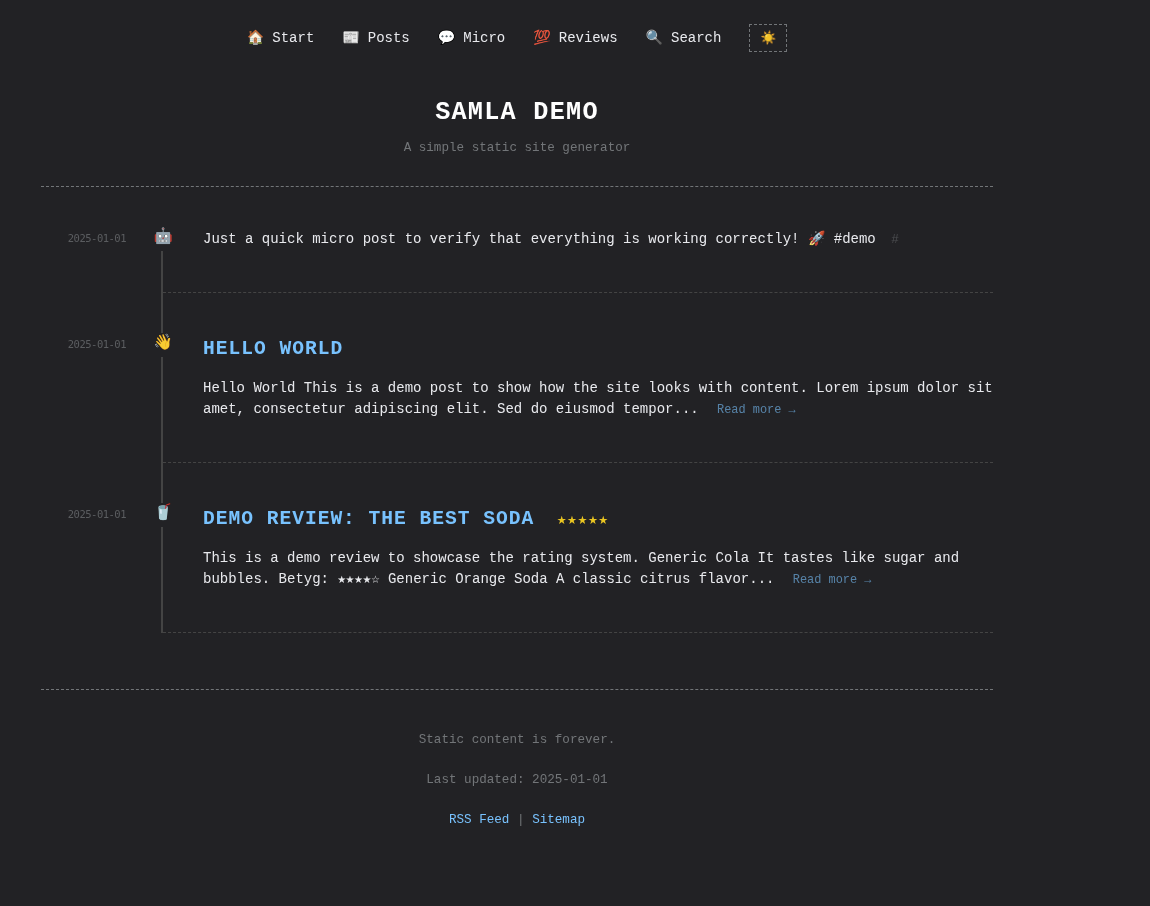
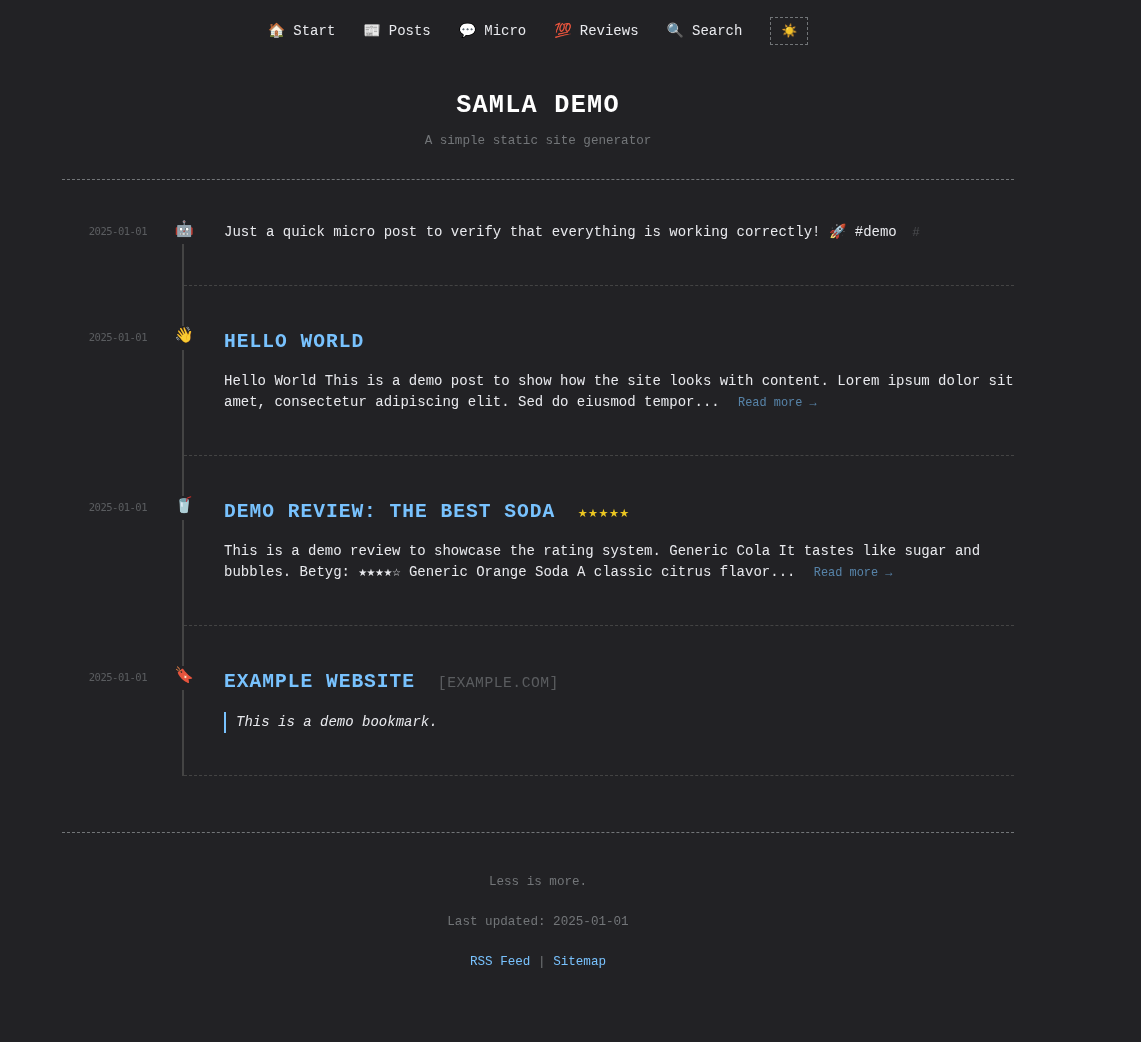
update screenshot with demo bookmark

diff --git a/content/bookmarks/demo-bookmark/post.md b/content/bookmarks/demo-bookmark/post.md
@@ -5,7 +5,7 @@ tags: [demo, example]
 category: bookmarks
 emoji: 🔖
 link: "https://example.com"
-via: "Internet"
+via: 
 why: "It serves as a great example."
 draft: false
 ---
